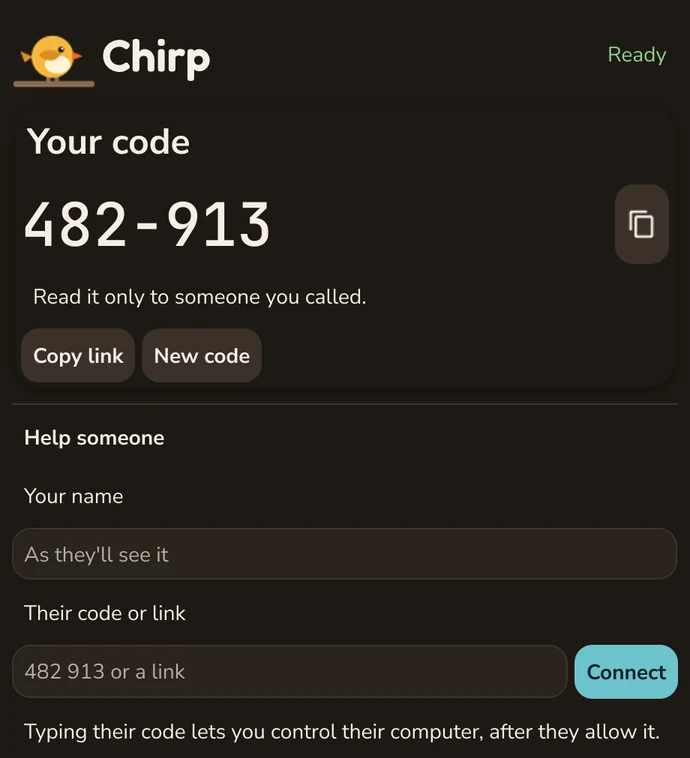
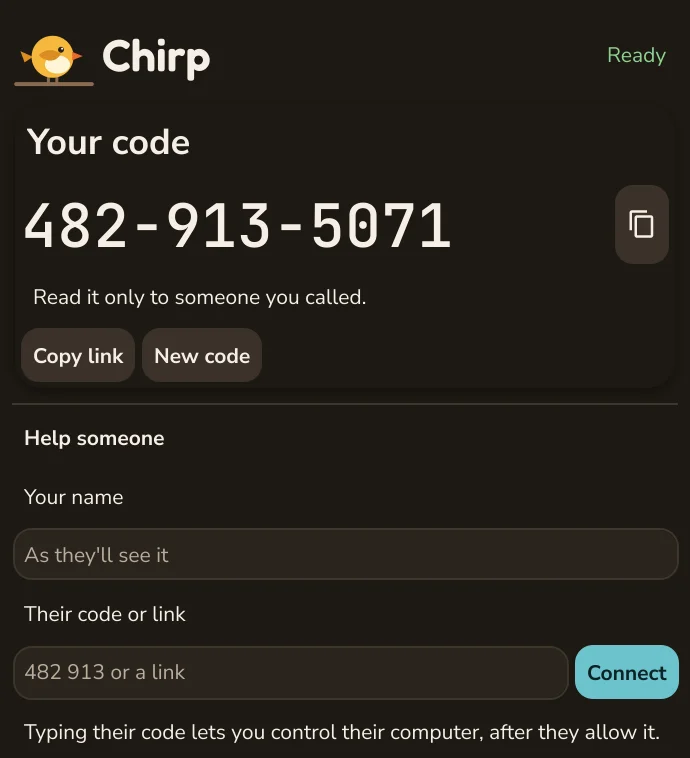
docs(site): show the 6+4 code and what works today
The window screenshots and the step mock still showed the six-digit code,
and the status said sharing the screen came next. Since #94 a Chirp
signalling over Nostr shows ten digits, 482-913-5071, whose last four the
server never sees, and since #85 the screen and input go through with the
owner's session bar, tried so far on one machine.

- Re-render both window screenshots from the current app, in the Warm
  theme, light and dark, at the same 690x758.
- Update the code in the step mock and the alt texts, in English and
  Portuguese.
- Rewrite the status line and the "nothing to download yet" list: screen
  sharing works on one machine; trying it between two is next.
- Size the step mock's code to its card with a container query, so the
  longer code does not wrap or clip where the steps sit in three columns,
  and let the Connect chip drop below the field there.

The note that the screenshots are in English stays: the app is not in
Portuguese yet (#80).

diff --git a/site/index.html b/site/index.html
@@ -76,7 +76,7 @@
           <div class="when-pre">
             <div class="status" role="note">
               <span class="pill" data-i18n="pill">In development</span>
-              <span data-i18n="statusText"><b>Chirp isn't out yet.</b> Two Chirps already find each other and ask for consent. Sharing the screen comes next.</span>
+              <span data-i18n="statusText"><b>Chirp isn't out yet.</b> Two Chirps already find each other, ask for consent and share the screen. Trying it between two machines comes next.</span>
             </div>
           </div>
         </div>
@@ -86,8 +86,8 @@
           <svg viewBox="0 0 120 120"><g class="pose-perch"><use href="#bird-perched"/></g><g class="pose-chirp"><use href="#bird-chirping"/></g></svg>
         </div>
         <div class="frame">
-          <img class="shot-light" src="/assets/images/window-light.webp" width="690" height="758" data-i18n-attr="alt:altWindow" alt="Chirp's window: your code, 482-913, with a hint to read it only to someone you called, buttons to copy the link or get a new code, and a Help someone form to type another person's code.">
-          <img class="shot-dark" src="/assets/images/window-dark.webp" width="690" height="758" data-i18n-attr="alt:altWindowDark" alt="Chirp's window in dark mode: your code, 482-913, and the Help someone form.">
+          <img class="shot-light" src="/assets/images/window-light.webp" width="690" height="758" data-i18n-attr="alt:altWindow" alt="Chirp's window: your code, 482-913-5071, with a hint to read it only to someone you called, buttons to copy the link or get a new code, and a Help someone form to type another person's code.">
+          <img class="shot-dark" src="/assets/images/window-dark.webp" width="690" height="758" data-i18n-attr="alt:altWindowDark" alt="Chirp's window in dark mode: your code, 482-913-5071, and the Help someone form.">
         </div>
         <p class="shotnote" data-lang-only="pt-BR">Capturas da versão atual, que por enquanto está só em inglês.</p>
       </div>
@@ -105,7 +105,7 @@
           <div class="vis" aria-hidden="true">
             <svg class="bird" viewBox="0 0 120 120"><use href="#bird-perched"/><use href="#perch-line"/></svg>
             <span class="mini-label" data-i18n="miniYourCode">Your code</span>
-            <span class="mini-code">482-913</span>
+            <span class="mini-code">482-913-5071</span>
             <div class="mini-row"><span class="chip" data-i18n="miniCopyLink">Copy link</span><span class="chip" data-i18n="miniNewCode">New code</span></div>
           </div>
           <h3 data-i18n="s1Title">Run Chirp</h3>
@@ -115,7 +115,7 @@
           <div class="vis" aria-hidden="true">
             <svg class="bird" viewBox="0 0 120 120"><use href="#bird-chirping"/><use href="#perch-line"/></svg>
             <span class="mini-label" data-i18n="miniTheirCode">Their code or link</span>
-            <div class="field"><span>482 913</span><span class="chip go" data-i18n="miniConnect">Connect</span></div>
+            <div class="field"><span>482 913 5071</span><span class="chip go" data-i18n="miniConnect">Connect</span></div>
           </div>
           <h3 data-i18n="s2Title">Send your chirp to someone you trust</h3>
           <p data-i18n="s2Text">They type it into their own Chirp, or paste your link. Every use of the link makes a fresh single-use code, so a code that leaks after it was used opens nothing.</p>
@@ -244,9 +244,11 @@ CHIRP_RELAY=https://relay.example.org chirp</pre>
             <ul>
               <li>the window, with your code and link, and the form to help someone;</li>
               <li>the consent prompt, and your answer reaching the relay;</li>
+              <li>sharing the screen and the mouse and keyboard, with a bar on your screen for as long as it lasts, tried so far on one machine;</li>
+              <li>with signalling over Nostr, a code whose last four digits only the two Chirps know, never the server;</li>
               <li>a relay you can host yourself.</li>
             </ul>
-            <p>Sharing the screen is next. <a href="https://github.com/barahn/chirp#status">Follow the progress</a>.</p>
+            <p>Trying it between two machines is next. <a href="https://github.com/barahn/chirp#status">Follow the progress</a>.</p>
           </div>
         </div>
       </div>

diff --git a/site/assets/site.js b/site/assets/site.js
@@ -29,9 +29,9 @@
     otherSystems: "Outros sistemas",
     fine: "Grátis. Um arquivo só, nada para instalar, o mesmo download para todo mundo.",
     pill: "Em desenvolvimento",
-    statusText: "<b>O Chirp ainda não foi lançado.</b> Dois Chirps já se encontram e pedem consentimento. Compartilhar a tela é o próximo passo.",
-    altWindow: "A janela do Chirp, em inglês: o seu código, 482-913, com a dica de lê-lo só para quem você chamou, botões para copiar o link ou gerar um novo código, e o formulário Help someone para digitar o código de outra pessoa.",
-    altWindowDark: "A janela do Chirp no modo escuro, em inglês: o seu código, 482-913, e o formulário para ajudar alguém.",
+    statusText: "<b>O Chirp ainda não foi lançado.</b> Dois Chirps já se encontram, pedem consentimento e compartilham a tela. Testar entre dois computadores é o próximo passo.",
+    altWindow: "A janela do Chirp, em inglês: o seu código, 482-913-5071, com a dica de lê-lo só para quem você chamou, botões para copiar o link ou gerar um novo código, e o formulário Help someone para digitar o código de outra pessoa.",
+    altWindowDark: "A janela do Chirp no modo escuro, em inglês: o seu código, 482-913-5071, e o formulário para ajudar alguém.",
     howKicker: "Como funciona",
     howTitle: "Três passos, e o último é seu.",
     miniYourCode: "Seu código",
@@ -95,7 +95,7 @@
     saysLinux: "<b>Torne o arquivo executável</b> e rode. No Wayland, depois que você aperta Permitir, o sistema pergunta mais uma vez <b>qual tela compartilhar</b>.",
     verify: "Toda cópia é idêntica. Confira a sua com o SHA-256 e a assinatura publicados em cada versão.",
     verifyCode: "sha256 · publicado com a primeira versão",
-    notYet: "<h3>Ainda não há o que baixar</h3><p>O Chirp está em desenvolvimento. O que já funciona:</p><ul><li>a janela, com o seu código e link, e o formulário para ajudar alguém;</li><li>a janela de consentimento, e a sua resposta chegando ao relay;</li><li>um relay que você mesmo pode hospedar.</li></ul><p>Compartilhar a tela é o próximo passo. <a href=\"https://github.com/barahn/chirp#status\">Acompanhe o andamento</a>.</p>",
+    notYet: "<h3>Ainda não há o que baixar</h3><p>O Chirp está em desenvolvimento. O que já funciona:</p><ul><li>a janela, com o seu código e link, e o formulário para ajudar alguém;</li><li>a janela de consentimento, e a sua resposta chegando ao relay;</li><li>compartilhar a tela, o mouse e o teclado, com uma barra na sua tela enquanto durar, testado até agora em um computador só;</li><li>com a sinalização pelo Nostr, um código cujos quatro últimos dígitos só os dois Chirps conhecem, nunca o servidor;</li><li>um relay que você mesmo pode hospedar.</li></ul><p>Testar entre dois computadores é o próximo passo. <a href=\"https://github.com/barahn/chirp#status\">Acompanhe o andamento</a>.</p>",
     linkTitle: "Alguém te mandou um link do Chirp",
     linkLede: "Cole no Chirp para ajudar essa pessoa. Ela vai ser perguntada na própria tela antes de qualquer coisa começar.",
     copy: "Copiar link",

diff --git a/site/assets/site.css b/site/assets/site.css
@@ -166,19 +166,20 @@ section { padding-block: clamp(56px, 9vw, 112px); }
 .vis {
   position: relative; height: 196px; border-radius: 18px; background: var(--surface);
   border: 1px solid var(--line); padding: 20px; display: flex; flex-direction: column; justify-content: flex-end; gap: 12px; overflow: hidden;
+  container-type: inline-size;
 }
 .vis .bird { position: absolute; width: 74px; height: 74px; top: 10px; right: 12px; }
 .step h3 { font: 600 1.45rem/1.15 var(--display); display: flex; gap: 12px; align-items: baseline; }
 .step h3::before { counter-increment: step; content: counter(step); font: 600 1rem/1 var(--display); color: var(--on-primary); background: var(--primary); width: 28px; height: 28px; border-radius: 50%; display: inline-grid; place-items: center; flex: none; transform: translateY(-3px); }
 .step p { color: var(--muted); }
 .mini-label { font: 800 var(--step--2)/1 var(--body); color: var(--muted); }
-.mini-code { font: 500 2.4rem/1 var(--mono); letter-spacing: .02em; font-variant-numeric: tabular-nums; }
+.mini-code { font: 500 min(2.4rem, 12cqi)/1 var(--mono); white-space: nowrap; letter-spacing: .02em; font-variant-numeric: tabular-nums; }
 .mini-row { display: flex; gap: 8px; flex-wrap: wrap; }
 .chip { font: 700 var(--step--2)/1 var(--body); padding: 9px 12px; border-radius: 999px; background: var(--button); color: var(--text); }
 .chip.go { background: var(--primary); color: var(--on-primary); }
 .chip.off { background: transparent; color: var(--muted); padding-inline: 4px; }
-.field { display: flex; gap: 8px; align-items: center; }
-.field span:first-child { flex: 1; min-width: 0; border: 1px solid var(--line); background: var(--bg); border-radius: 999px; padding: 10px 14px; font: 500 var(--step--1)/1 var(--mono); }
+.field { display: flex; flex-wrap: wrap; gap: 8px; align-items: center; }
+.field span:first-child { flex: 1 0 auto; white-space: nowrap; border: 1px solid var(--line); background: var(--bg); border-radius: 999px; padding: 10px 14px; font: 500 var(--step--1)/1 var(--mono); }
 .ask { font: 800 var(--step--1)/1.3 var(--body); }
 .whose { margin-top: clamp(28px, 4vw, 44px); display: flex; gap: 14px 40px; flex-wrap: wrap; align-items: baseline; border-top: 1px solid var(--line); padding-top: 22px; }
 .whose strong { font: 600 var(--step-1)/1.3 var(--display); }
